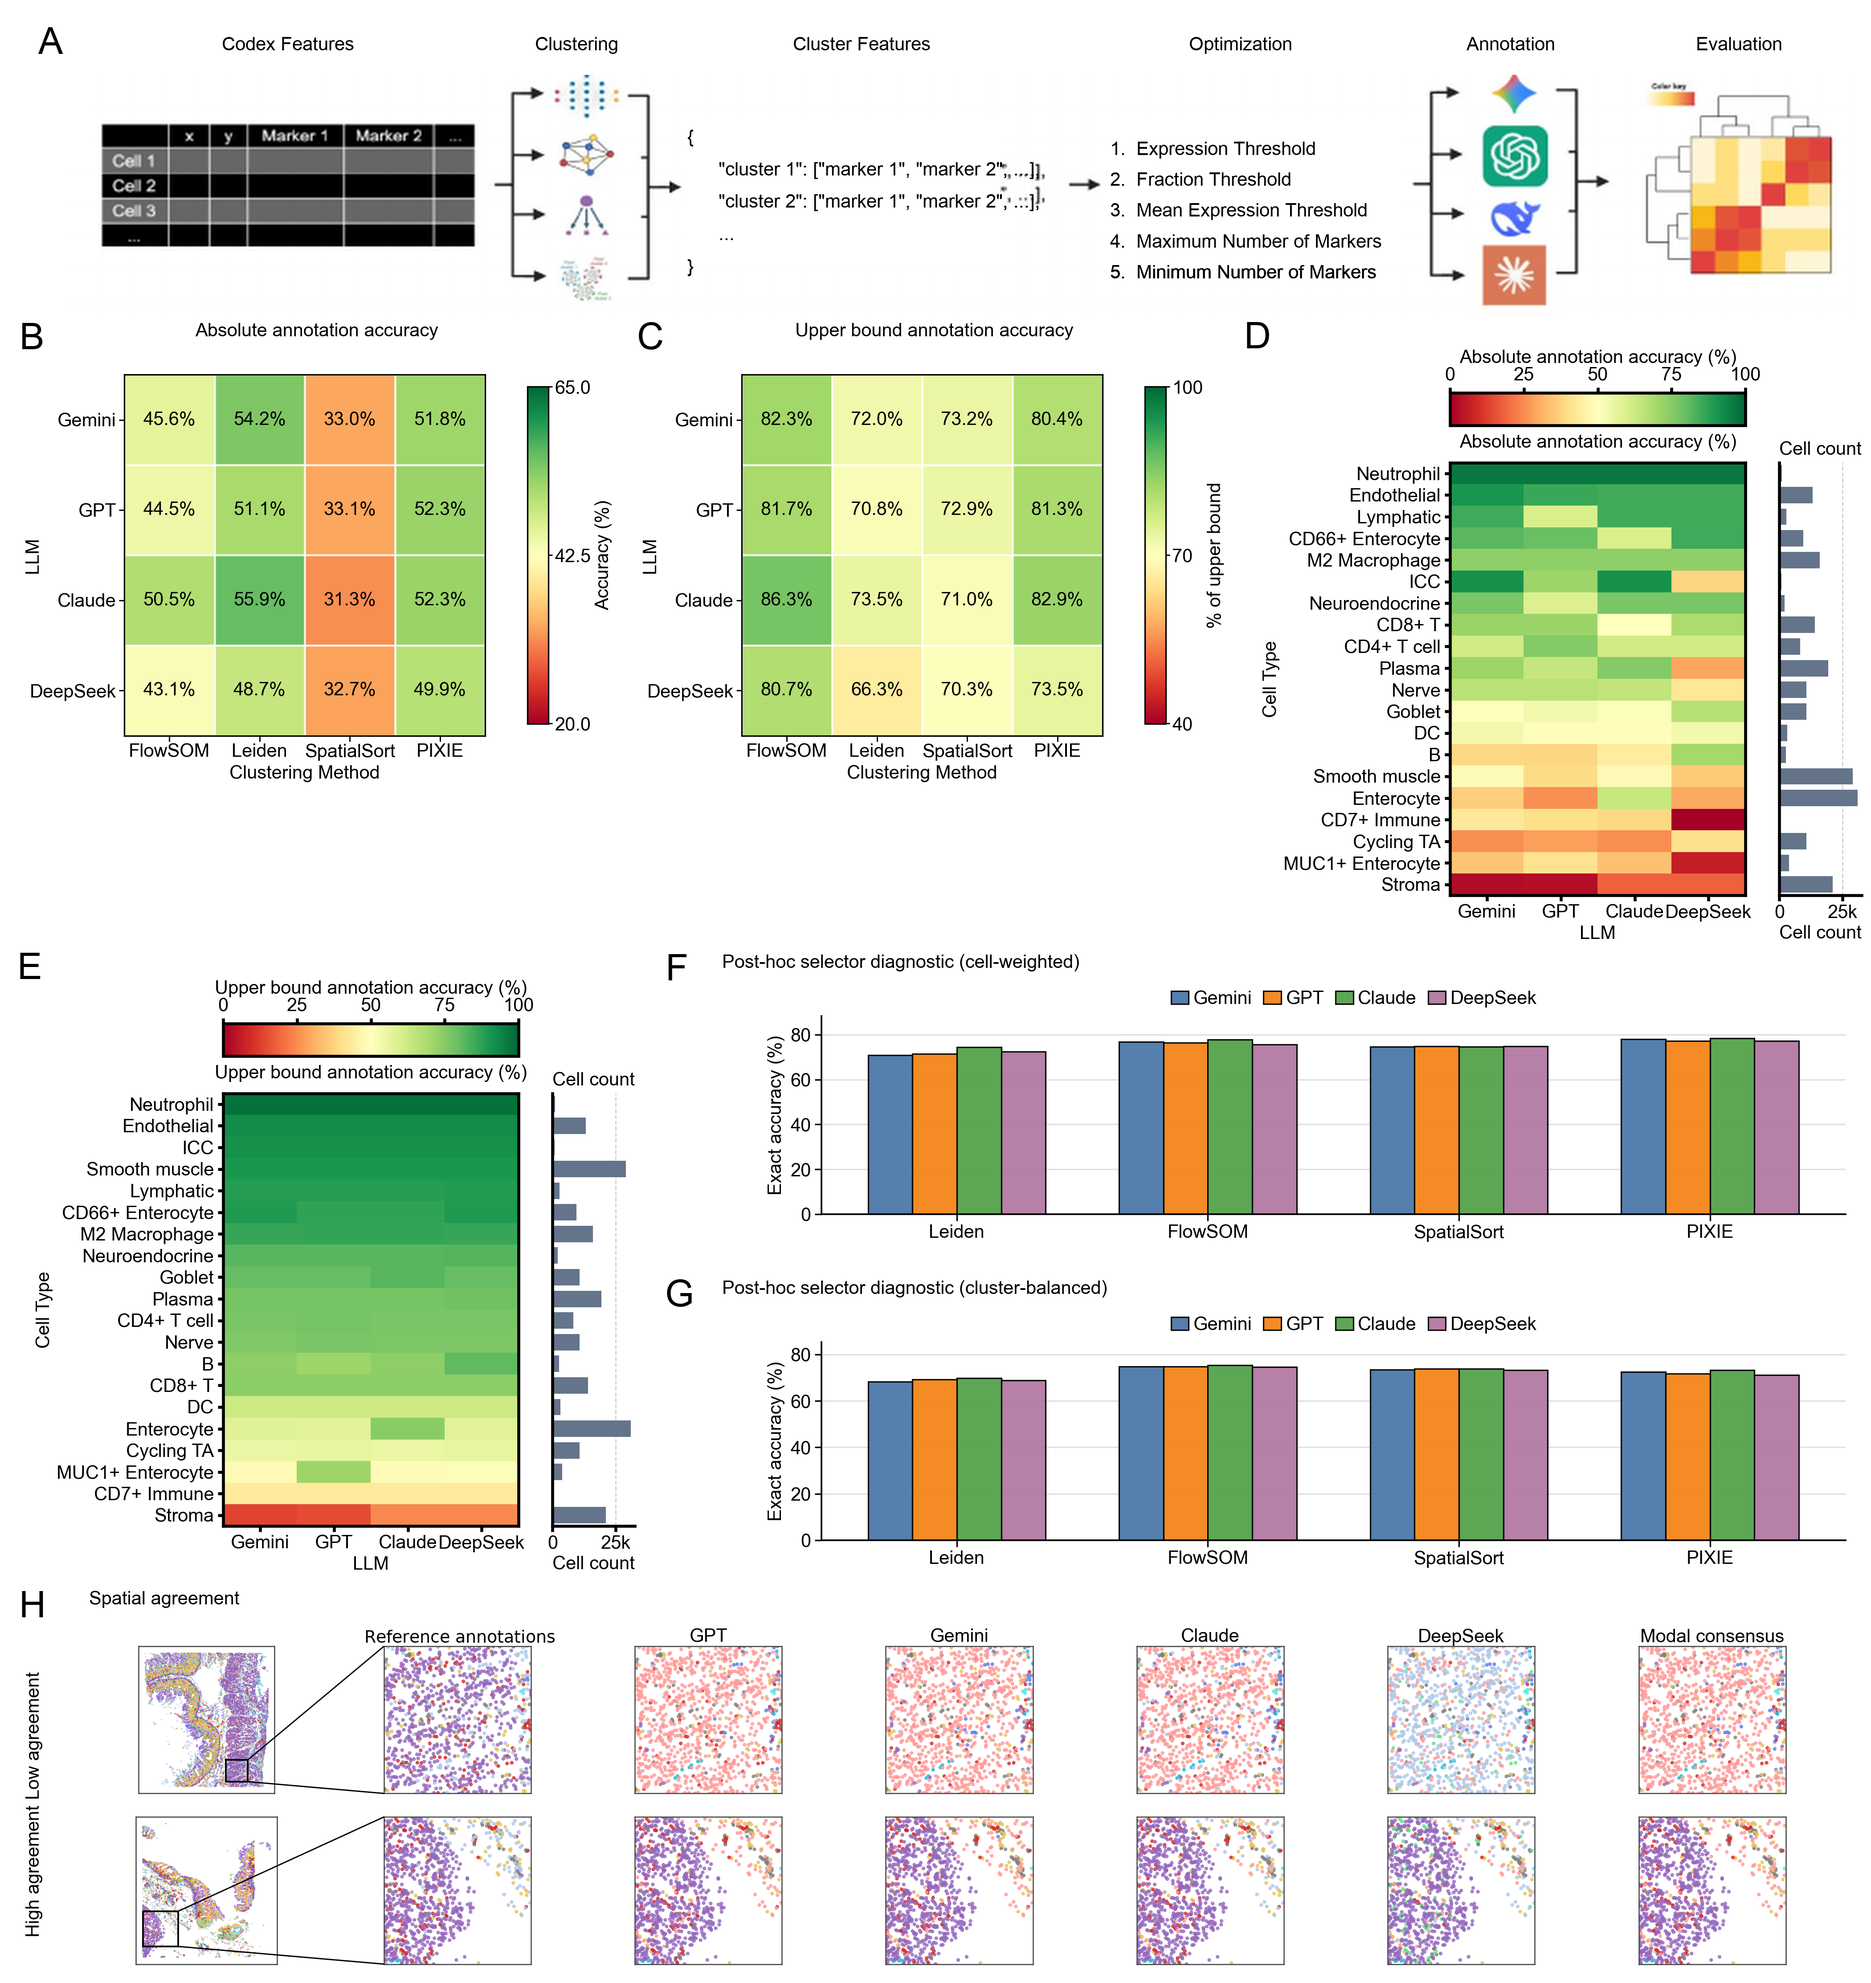
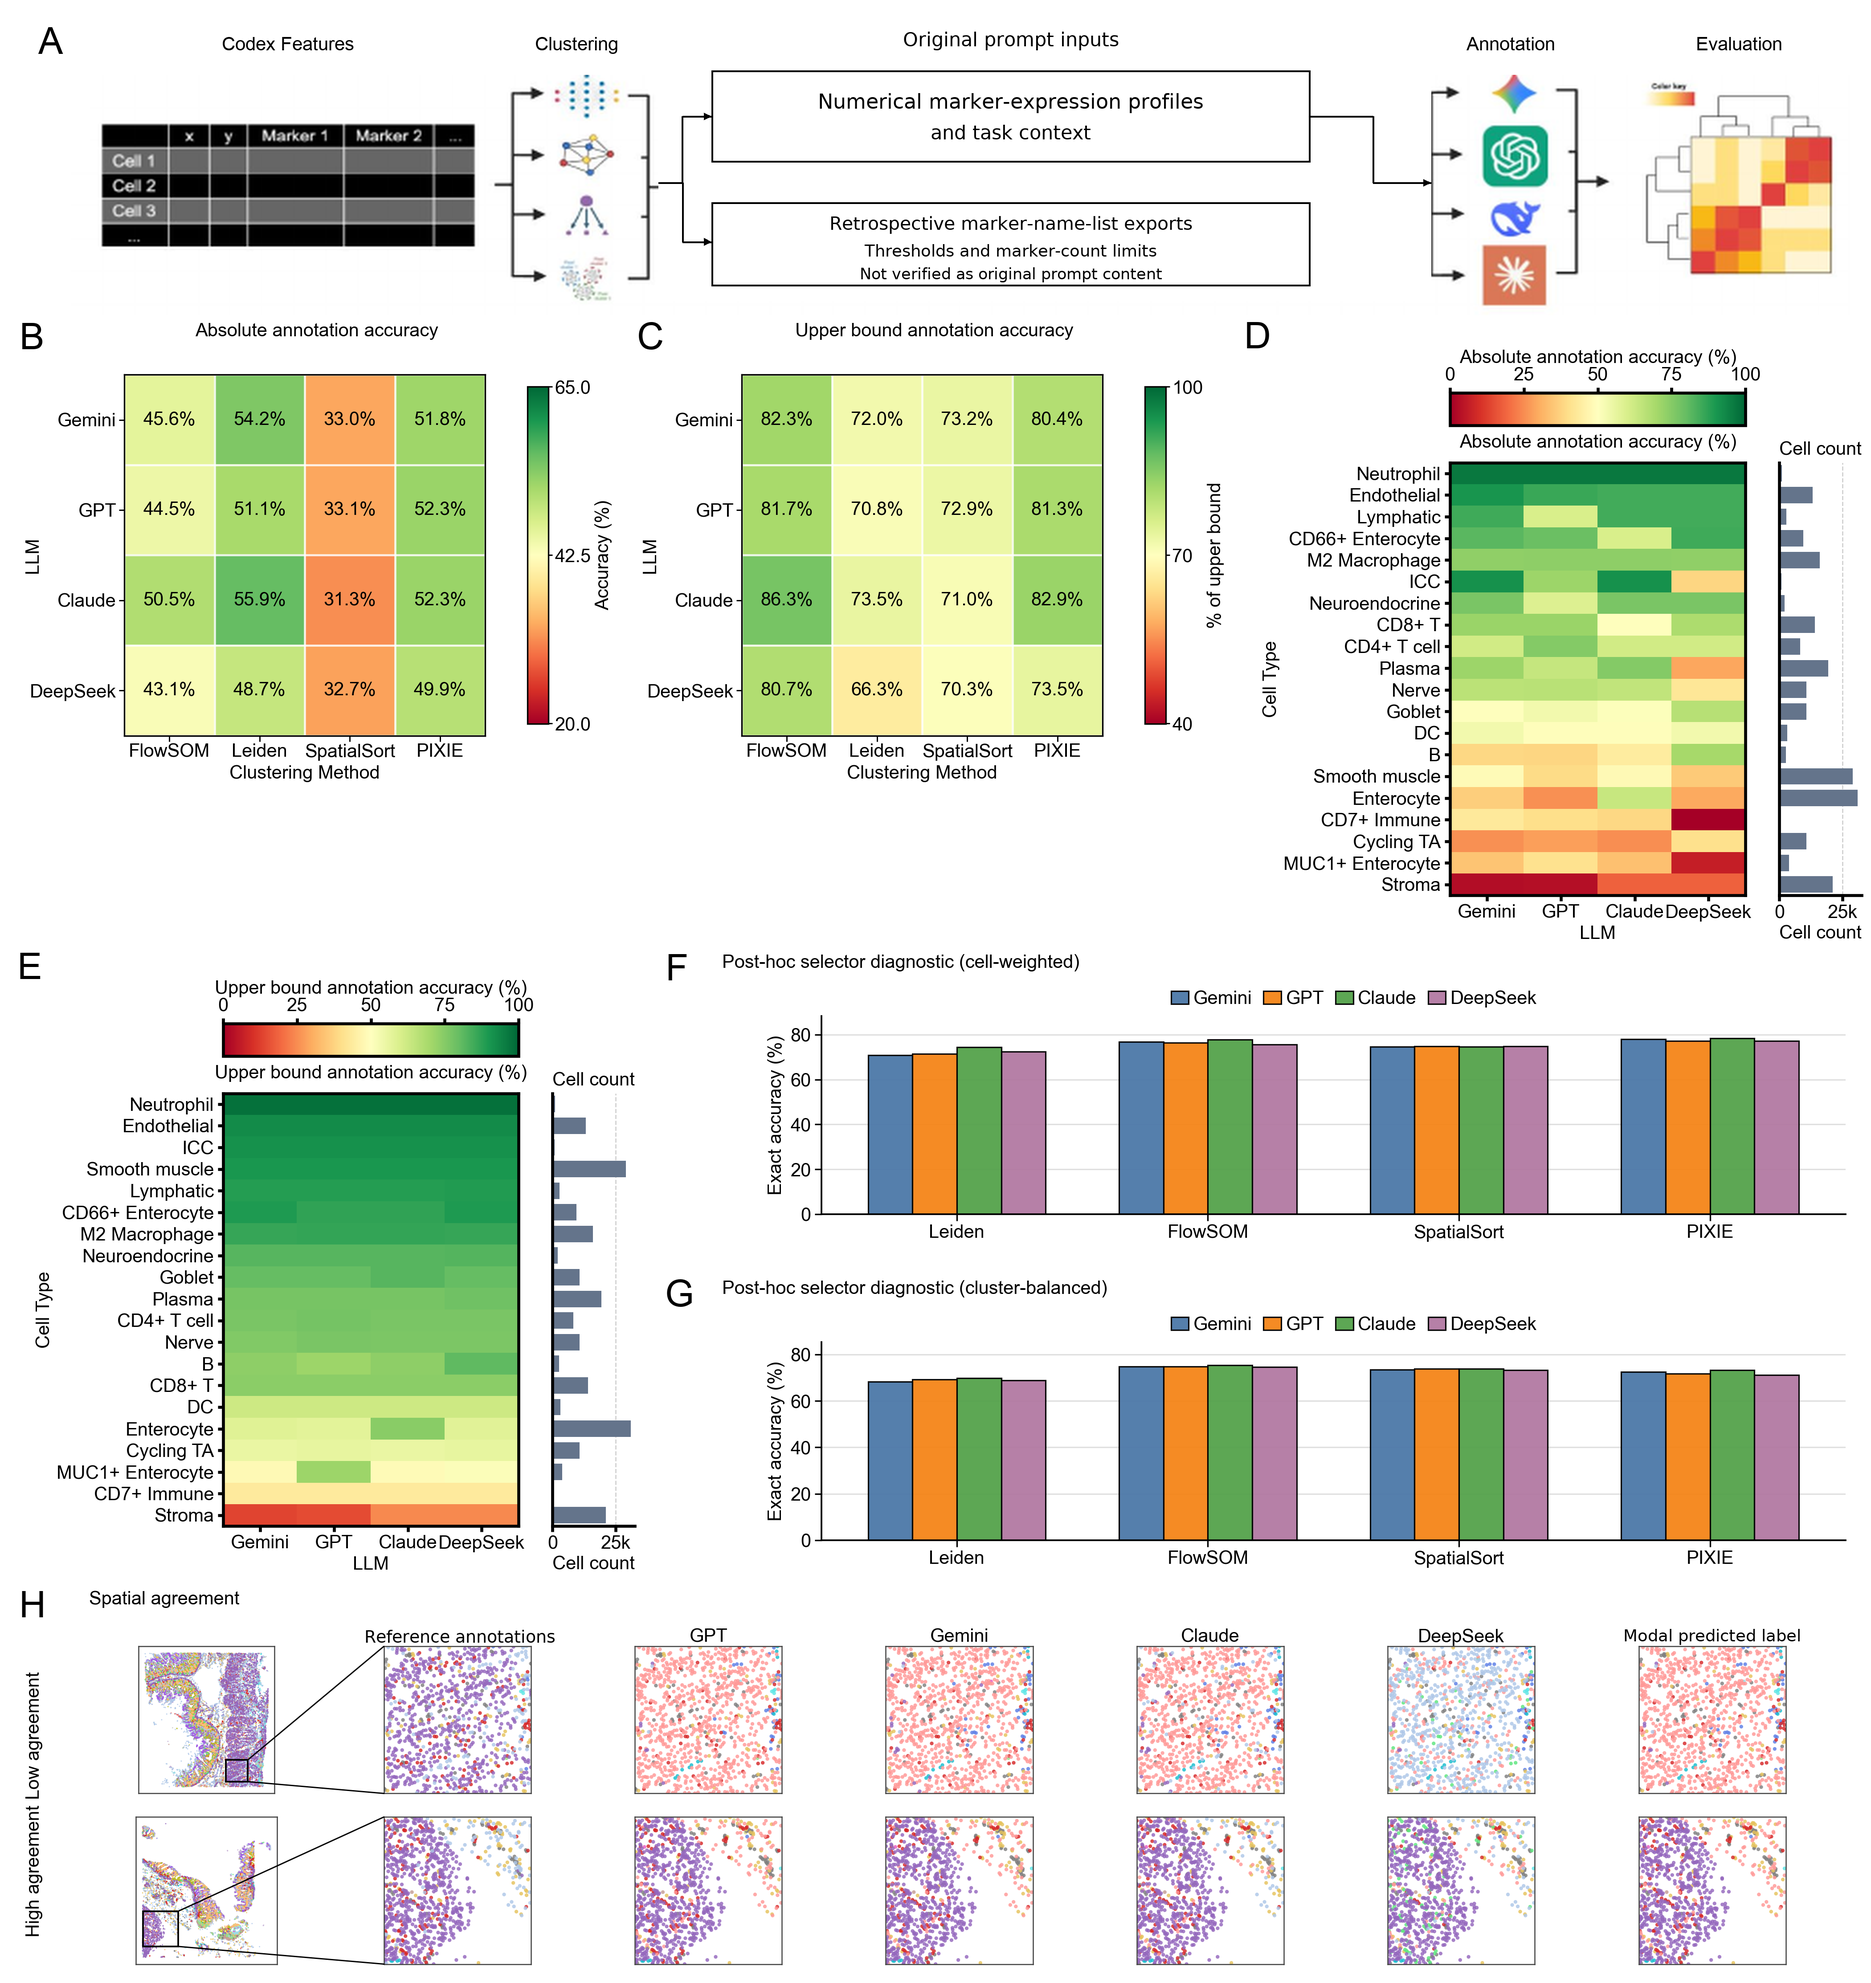
Clarify Figure 3 original prompt inputs and modal predicted labels

diff --git a/scripts/figure_03_workflow_artwork.py b/scripts/figure_03_workflow_artwork.py
@@ -1,0 +1,39 @@
+"""Draw the source-content distinction in the publication Figure 3A workflow.
+
+This explanatory overlay changes no data or model result. Numerical expression
+profiles and task context feed the original-prompt annotation path. Retrospective
+marker-name-list exports have their own branch, with no arrow to the LLMs.
+"""
+from pathlib import Path
+from PIL import Image, ImageDraw, ImageFont
+
+
+def draw_prompt_workflow(image: Image.Image, rect: list[int], font_path: Path) -> None:
+    x, y, width, height = rect
+    draw = ImageDraw.Draw(image)
+    sx, sy = (width - 1) / 800, (height - 1) / 300
+    def point(px: float, py: float) -> tuple[int, int]:
+        return round(x + px * sx), round(y + py * sy)
+    line_width = max(1, round(2 * sy))
+    def text(px: float, py: float, value: str, size: int) -> None:
+        font = ImageFont.truetype(str(font_path), round(size * sy))
+        draw.text(point(px, py), value, font=font, fill='black', anchor='mm')
+    def box(left: float, top: float, right: float, bottom: float) -> None:
+        draw.rectangle((*point(left, top), *point(right, bottom)), outline='black', width=line_width)
+    def arrow(points: list[tuple[float, float]]) -> None:
+        draw.line([point(*p) for p in points], fill='black', width=line_width)
+        end_x, end_y = points[-1]
+        draw.polygon([point(end_x, end_y), point(end_x - 8, end_y - 4), point(end_x - 8, end_y + 4)], fill='black')
+
+    text(365, 17, 'Original prompt inputs', 21)
+    box(55, 50, 675, 150)
+    text(365, 84, 'Numerical marker-expression profiles', 22)
+    text(365, 118, 'and task context', 21)
+    arrow([(0, 172), (25, 172), (25, 100), (55, 100)])
+    arrow([(675, 100), (740, 100), (740, 172), (800, 172)])
+
+    box(55, 193, 675, 284)
+    text(365, 216, 'Retrospective marker-name-list exports', 20)
+    text(365, 246, 'Thresholds and marker-count limits', 18)
+    text(365, 271, 'Not verified as original prompt content', 17)
+    arrow([(25, 172), (25, 236), (55, 236)])

diff --git a/scripts/update_reference_figure_labels.py b/scripts/update_reference_figure_labels.py
@@ -1,5 +1,5 @@
 #!/usr/bin/env python3
-"""Reproduce label-only publication previews without rerunning an analysis.
+"""Reproduce display-only publication previews without rerunning an analysis.
 
 The original PNGs are read from the pinned Git revision and checksum-verified.
 Internal truth-column names and biological label vocabularies are not changed.
@@ -13,6 +13,7 @@ from pathlib import Path
 import subprocess
 import numpy as np
 from PIL import Image, ImageDraw, ImageFont
+from figure_03_workflow_artwork import draw_prompt_workflow
 
 ROOT = Path(__file__).resolve().parents[1]
 MANIFEST = ROOT / 'docs/reference_figure_label_changes.json'
@@ -29,6 +30,9 @@ def render(source: bytes, spec: dict, font_path: Path) -> Image.Image:
         x, y, width, height = label['rect']
         draw.rectangle((x, y, x + width - 1, y + height - 1), fill='white')
         mask[y:y + height, x:x + width] = True
+        if label.get('kind') == 'prompt_workflow':
+            draw_prompt_workflow(result, label['rect'], font_path)
+            continue
         font = ImageFont.truetype(str(font_path), round(label['size']))
         if label.get('rotate'):
             bounds = font.getbbox(label['new'])
@@ -41,7 +45,7 @@ def render(source: bytes, spec: dict, font_path: Path) -> Image.Image:
             draw.text((label['x'], label['y']), label['new'], font=font, fill='black', anchor=anchor)
     differences = np.any(np.asarray(original) != np.asarray(result), axis=2)
     if np.any(differences & ~mask):
-        raise ValueError(f"Label rendering escaped its declared text areas: {spec['file']}")
+        raise ValueError(f"Label rendering escaped its declared overlay areas: {spec['file']}")
     return result
 
 

diff --git a/notebooks/final_figures/previews/README.md b/notebooks/final_figures/previews/README.md
@@ -1,9 +1,10 @@
 # Publication previews
 
-These PNG files preserve the validated source-traced publication results and
-include a display-label revision for reference-annotation uncertainty. They
+These PNG files preserve the source-traced publication results and include
+reference terminology, verified metric labels and a prompt-provenance workflow
+revision. They
 are committed so reviewers can inspect the results on GitHub without rerunning
-an analysis. Every pixel outside the 15 declared label areas is unchanged.
+an analysis. Every pixel outside the 17 declared overlay areas is unchanged.
 
 The revised map headings use **Reference annotations**. Confusion-matrix
 reference axes use **Reference cell type**. Original dataset labels and
@@ -13,12 +14,17 @@ the actual post-hoc selected reference agreement score, and H identifies recall
 instead of its historical “Purity” display label. See
 [the numerical source audit](../../../docs/figure_02_publication_metrics.md).
 
+Figure 3H uses “Modal predicted label.” Figure 3A separates original numerical
+marker-expression profiles and task context from retrospective marker-name-list
+exports, which have their own branch. No export-to-LLM arrow is shown. See
+[the workflow notes](../../../docs/figure_03_workflow_and_modal_labels.md).
+
 These previews are not notebook execution state or reconstruction inputs.
 The parent notebooks and input contracts still govern analytical regeneration.
 The current notebooks may reconstruct panels differently from the historical
 publication composites, as documented in their existing provenance records.
 
-To reproduce or verify the label-only previews, use the pinned original images
+To reproduce or verify the display-only previews, use the pinned original images
 from Git and the Matplotlib/Pillow environment:
 
 ```bash
@@ -27,14 +33,14 @@ python scripts/update_reference_figure_labels.py --check
 ```
 
 The script validates the original image checksums and rejects changes outside
-the declared text areas. Patch coordinates and provenance are recorded in
+the declared overlay areas. Patch coordinates and provenance are recorded in
 [`reference_figure_label_changes.json`](../../../docs/reference_figure_label_changes.json).
 No clustering, metric calculation, or model call is performed.
 
 | Preview | Original SHA-256 | Revised SHA-256 |
 | --- | --- | --- |
[6 lines of base64/hex data omitted]

diff --git a/docs/figure_03_workflow_and_modal_labels.md b/docs/figure_03_workflow_and_modal_labels.md
@@ -1,0 +1,32 @@
+# Figure 3 prompt provenance and modal-label terminology
+
+Publication panel A retains the CODEX feature table, clustering icons, model
+icons and evaluation graphic. Its central schematic now has two distinct paths:
+
+- Numerical marker-expression profiles and task context feed the original LLM
+  prompt/annotation path.
+- Retrospective marker-name-list exports have a separate branch, labelled as
+  threshold- and marker-count-based exports that do not verify original prompt
+  content. There is no arrow from the short-list export to the LLMs.
+
+The old marker-list → optimization → LLM chain is removed. This is a correction
+to the explanatory workflow, with no changes to input data, predictions,
+parameter settings or results. The distinction follows the manuscript’s source
+interpretation in Section 2.10, Section 3.3, Supplementary Note 1 and the caption.
+It does not claim that the notebook reconstruction's generated summaries
+establish the historical prompts.
+
+Publication panel H uses **Modal predicted label**. This describes the most
+frequent predicted label with the existing deterministic tie rule. It does not
+claim independently validated consensus. The underlying modal labels and maps
+are unchanged, and internal `modal_consensus` keys remain for compatibility.
+
+The reproducible display-overlay manifest records exact rectangles and source
+and output hashes. The preview generator verifies that every pixel outside its
+declared rectangles remains identical. The canonical notebook schematic also
+uses the two separate branches. The historical local production renderers use
+the same workflow helper and modal map heading.
+
+## Matching Figure 3 caption wording
+
+Figure 3. Benchmarking large language model cell-type annotation. (A) Workflow showing numerical marker-expression profiles and task context supplied in the original LLM prompts, followed by annotation with GPT-5.6-Sol, Claude Opus 5, Gemini 3.1 Pro Preview or DeepSeek V4 Pro and evaluation against reference labels. Retrospective threshold-based marker-name-list exports are shown on a separate branch and do not establish the original prompt content. (B) Cell-level reference agreement across the 16 raw method-model maps. (C) Reference agreement as a percentage of the cluster-majority upper bound. (D) Cell-type-specific reference agreement for the four models applied to Leiden clusters. (E) Cell-type-specific reference agreement as a percentage of the cluster-majority upper bound. Bars at right in (D) and (E) show reference cell counts. (F–G) We used the known reference labels to select among candidate annotation outputs after prediction. Panel F gives each cell equal weight, while panel G gives each cluster equal weight. Because this selection uses reference labels, it does not measure performance on unlabeled data. (H) Reference and model-predicted spatial maps for representative low- and high-agreement regions. The modal predicted-label map is descriptive and is not an independently validated consensus pipeline. Cell-type colors correspond to Figure 2B. Panel C is recalculated from the verified final maps and fixed-partition majority bounds using Equation (4).

diff --git a/docs/reference_figure_labels.md b/docs/reference_figure_labels.md
@@ -11,7 +11,8 @@ vocabulary. The existing class names, ordering, normalization maps, class
 counts, and predictions are preserved.
 
 The five historical publication previews receive nine reference-terminology
-changes plus six source-verified metric-label changes in Figure 2. See
+changes, six source-verified metric-label changes in Figure 2, a descriptive
+modal-map heading in Figure 3H and a prompt-provenance overlay in Figure 3A. See
 [the metric audit](figure_02_publication_metrics.md).
 Their data are retained from the pinned original Git revision. The plotting
 code and configuration titles use the same terminology for future rendering.
@@ -21,6 +22,9 @@ for compatibility and are not rendered as map headings.
 See [the preview provenance](../notebooks/final_figures/previews/README.md) and
 [the coordinate manifest](reference_figure_label_changes.json) for exact source
 and output hashes. The patch script verifies that all pixels outside its
-text rectangles remain identical. There are no new fits, model calls or biological label merges. A read-only
+overlay rectangles remain identical. There are no new fits, model calls or biological label merges. A read-only
 recalculation verifies the existing Figure 2 E/G count tables and changes no
 score.
+
+The Figure 3 changes and matching caption are documented in
+[the prompt-provenance and modal-label notes](figure_03_workflow_and_modal_labels.md).
